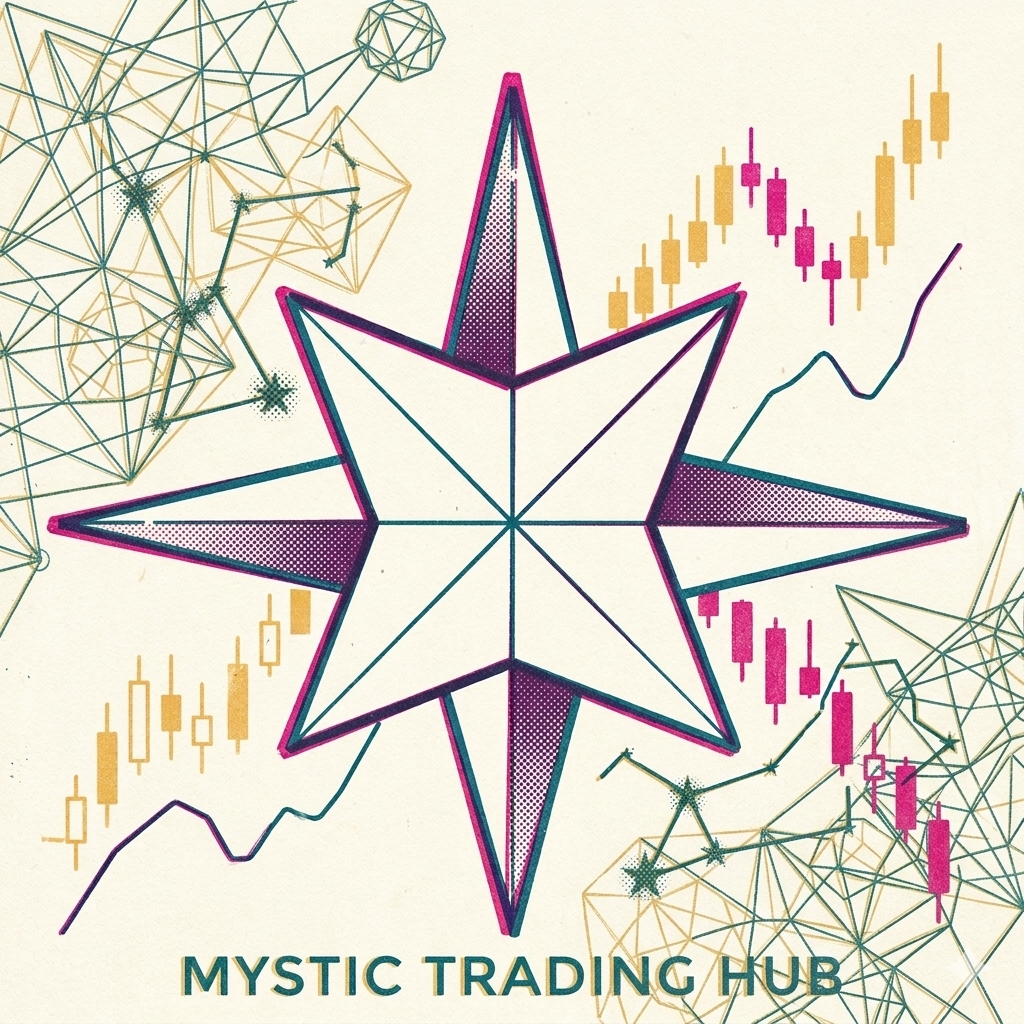
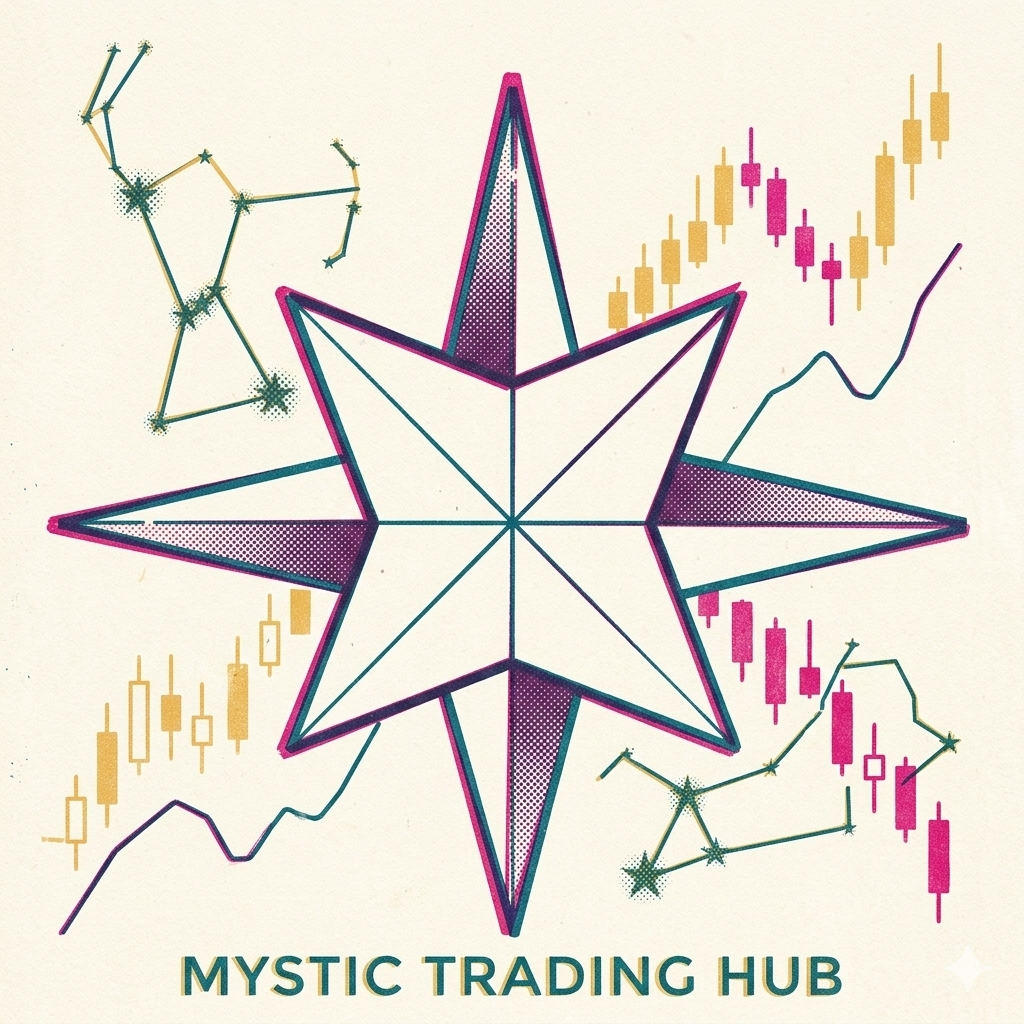
Feat - agrego proyecto y modifico fotos

diff --git a/index.html b/index.html
@@ -55,7 +55,7 @@
             </div>
         </div>
         <div class="hero-image" data-aos="fade-left" data-aos-delay="800">
-            <img src="images/LucaFoto.jpg" alt="Foto de Luca" class="profile-img">
+            <img src="images/PortfolioFoto1.jpeg" alt="Foto de Luca" class="profile-img">
         </div>
     </section>
 
@@ -176,28 +176,30 @@
 
                 <!-- Proyecto 3 eliminado: placeholder removido para dejar espacio a proyectos reales -->
 
-                <!-- Proyecto 4 -->
+                <!-- Proyecto 4 - Mystic Trading Hub -->
                 <div class="project-card" data-aos="fade-up" data-aos-delay="600">
                     <div class="card-image">
-                        <img src="https://picsum.photos/400/250?random=4" alt="Proyecto 4">
+                        <img src="images/MysticBannerpng.png" alt="Mystic Trading Hub — Landing Page">
                         <div class="card-overlay">
                             <div class="card-actions">
-                                <a href="#" class="action-btn" title="Ver Demo">
+                                <a href="https://mystic-trading-hub.vercel.app" target="_blank" rel="noopener" class="action-btn" title="Ver Demo">
                                     <i class="fas fa-external-link-alt"></i>
                                 </a>
-                                <a href="#" class="action-btn" title="Ver Código">
+                                <a href="https://github.com/alfisogni/mystic-trading-hub" target="_blank" rel="noopener" class="action-btn" title="Ver Código">
                                     <i class="fab fa-github"></i>
                                 </a>
                             </div>
                         </div>
                     </div>
                     <div class="card-content">
-                        <h3>Nombre del Proyecto 4</h3>
-                        <p>Descripción breve del proyecto. Tecnologías utilizadas y características principales.</p>
+                        <h3>Mystic Trading Hub</h3>
+                        <p>Landing page moderna para comunidad de trading con arquitectura limpia, componentes reutilizables, animaciones fluidas y sistema de temas. Incluye secciones dinámicas y formularios validados.</p>
                         <div class="project-tags">
-                            <span class="tag">JavaScript</span>
-                            <span class="tag">API REST</span>
-                            <span class="tag">CSS3</span>
+                            <span class="tag">React</span>
+                            <span class="tag">TypeScript</span>
+                            <span class="tag">Tailwind CSS</span>
+                            <span class="tag">shadcn/ui</span>
+                            <span class="tag">Framer Motion</span>
                         </div>
                     </div>
                 </div>
@@ -254,31 +256,31 @@
                     </div>
                 </div>
 
-                <!-- Minerva (Demo) -->
+                <!-- Minerva -->
                 <div class="project-card" data-aos="fade-up" data-aos-delay="900">
                     <div class="card-image">
-                        <img src="images/MInervaVar1.png" alt="Minerva - Automatización de Documentación">
+                        <img src="images/MInervaVar1.png" alt="Minerva — Sistema de Automatización de Documentación">
                         <div class="card-overlay">
                             <div class="card-actions">
-                                <a href="https://minerva-nine-xi.vercel.app" target="_blank" rel="noopener" class="action-btn" title="Abrir Demo">
+                                <a href="https://minerva-nine-xi.vercel.app" target="_blank" rel="noopener" class="action-btn" title="Ver Demo">
                                     <i class="fas fa-external-link-alt"></i>
                                 </a>
-                                <a href="#" class="action-btn disabled" title="Repositorio privado" aria-disabled="true">
+                                <a href="https://github.com/alfisogni/Minerva" target="_blank" rel="noopener" class="action-btn" title="Ver Código">
                                     <i class="fab fa-github"></i>
                                 </a>
                             </div>
                         </div>
                     </div>
                     <div class="card-content">
-                        <h3>Minerva — Automatización de Documentación</h3>
-                        <p>Genera documentación profesional (.docx) desde múltiples archivos (PDF, DOCX, código). Demo online para ver flujo sin exponer código.</p>
+                        <h3>Minerva</h3>
+                        <p>Sistema de automatización de documentación técnica con IA. Procesa múltiples archivos de proyecto, genera documentos Word estructurados con 12 secciones profesionales, gestión de versiones e historial de actividad.</p>
                         <div class="project-tags">
-                            <span class="tag">AI</span>
-                            <span class="tag">OCR</span>
-                            <span class="tag">docx</span>
-                            <span class="tag">Demo</span>
+                            <span class="tag">React</span>
+                            <span class="tag">TypeScript</span>
+                            <span class="tag">Ant Design</span>
+                            <span class="tag">IA Integration</span>
+                            <span class="tag">Document Automation</span>
                         </div>
-                        <div style="margin-top:12px; font-size:0.9rem; color:#f1f5f9"><strong>Estado:</strong> Demo pública en Vercel</div>
                     </div>
                 </div>
             </div>
